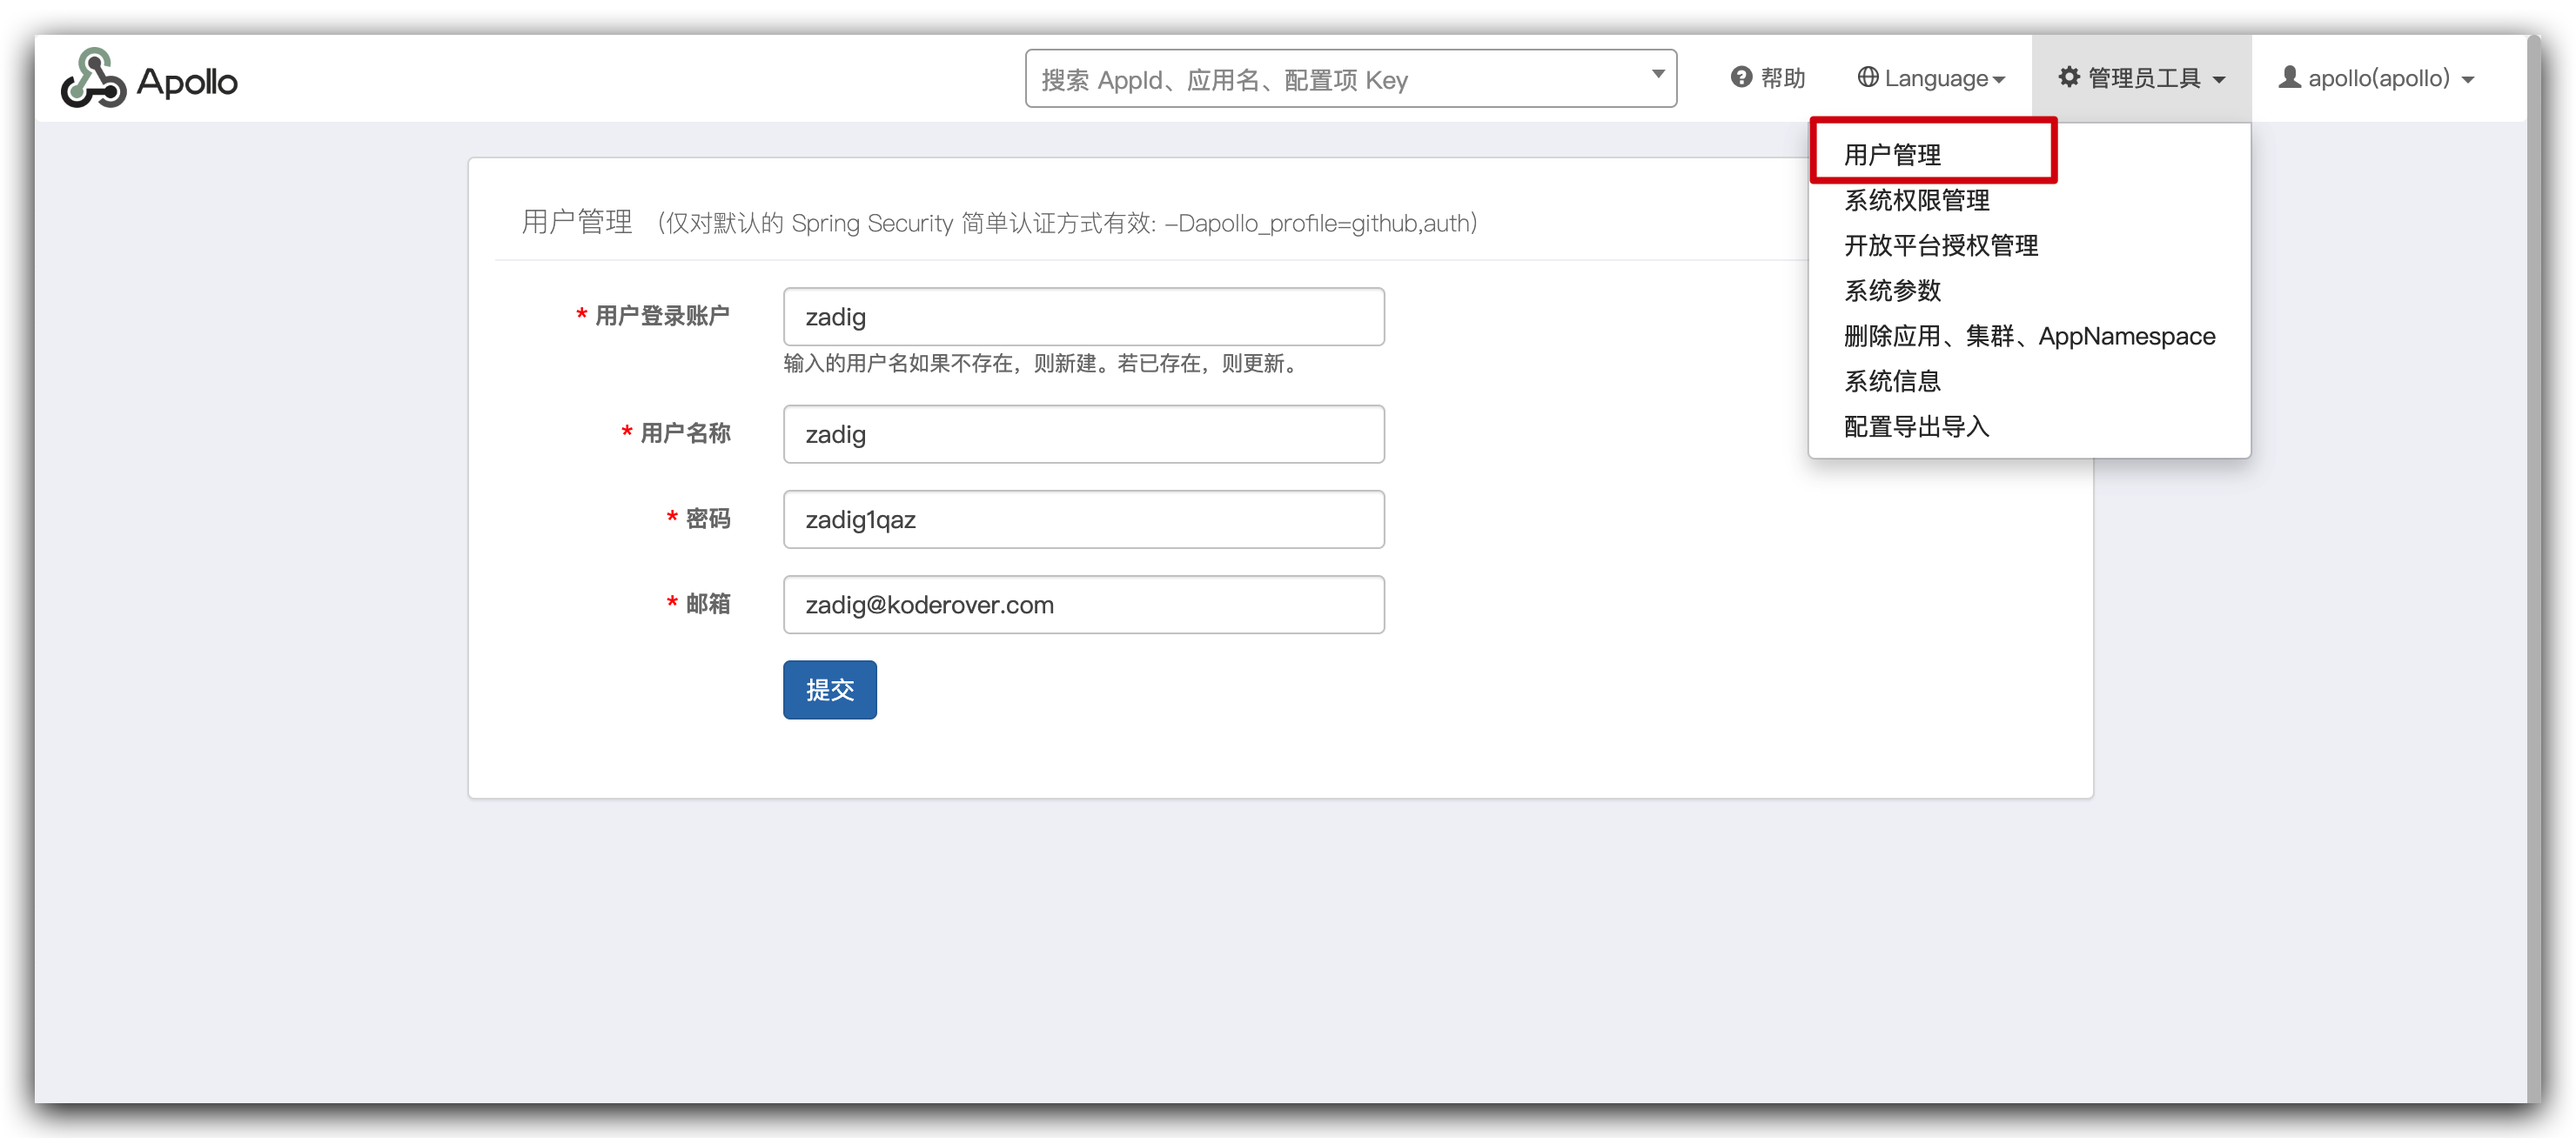
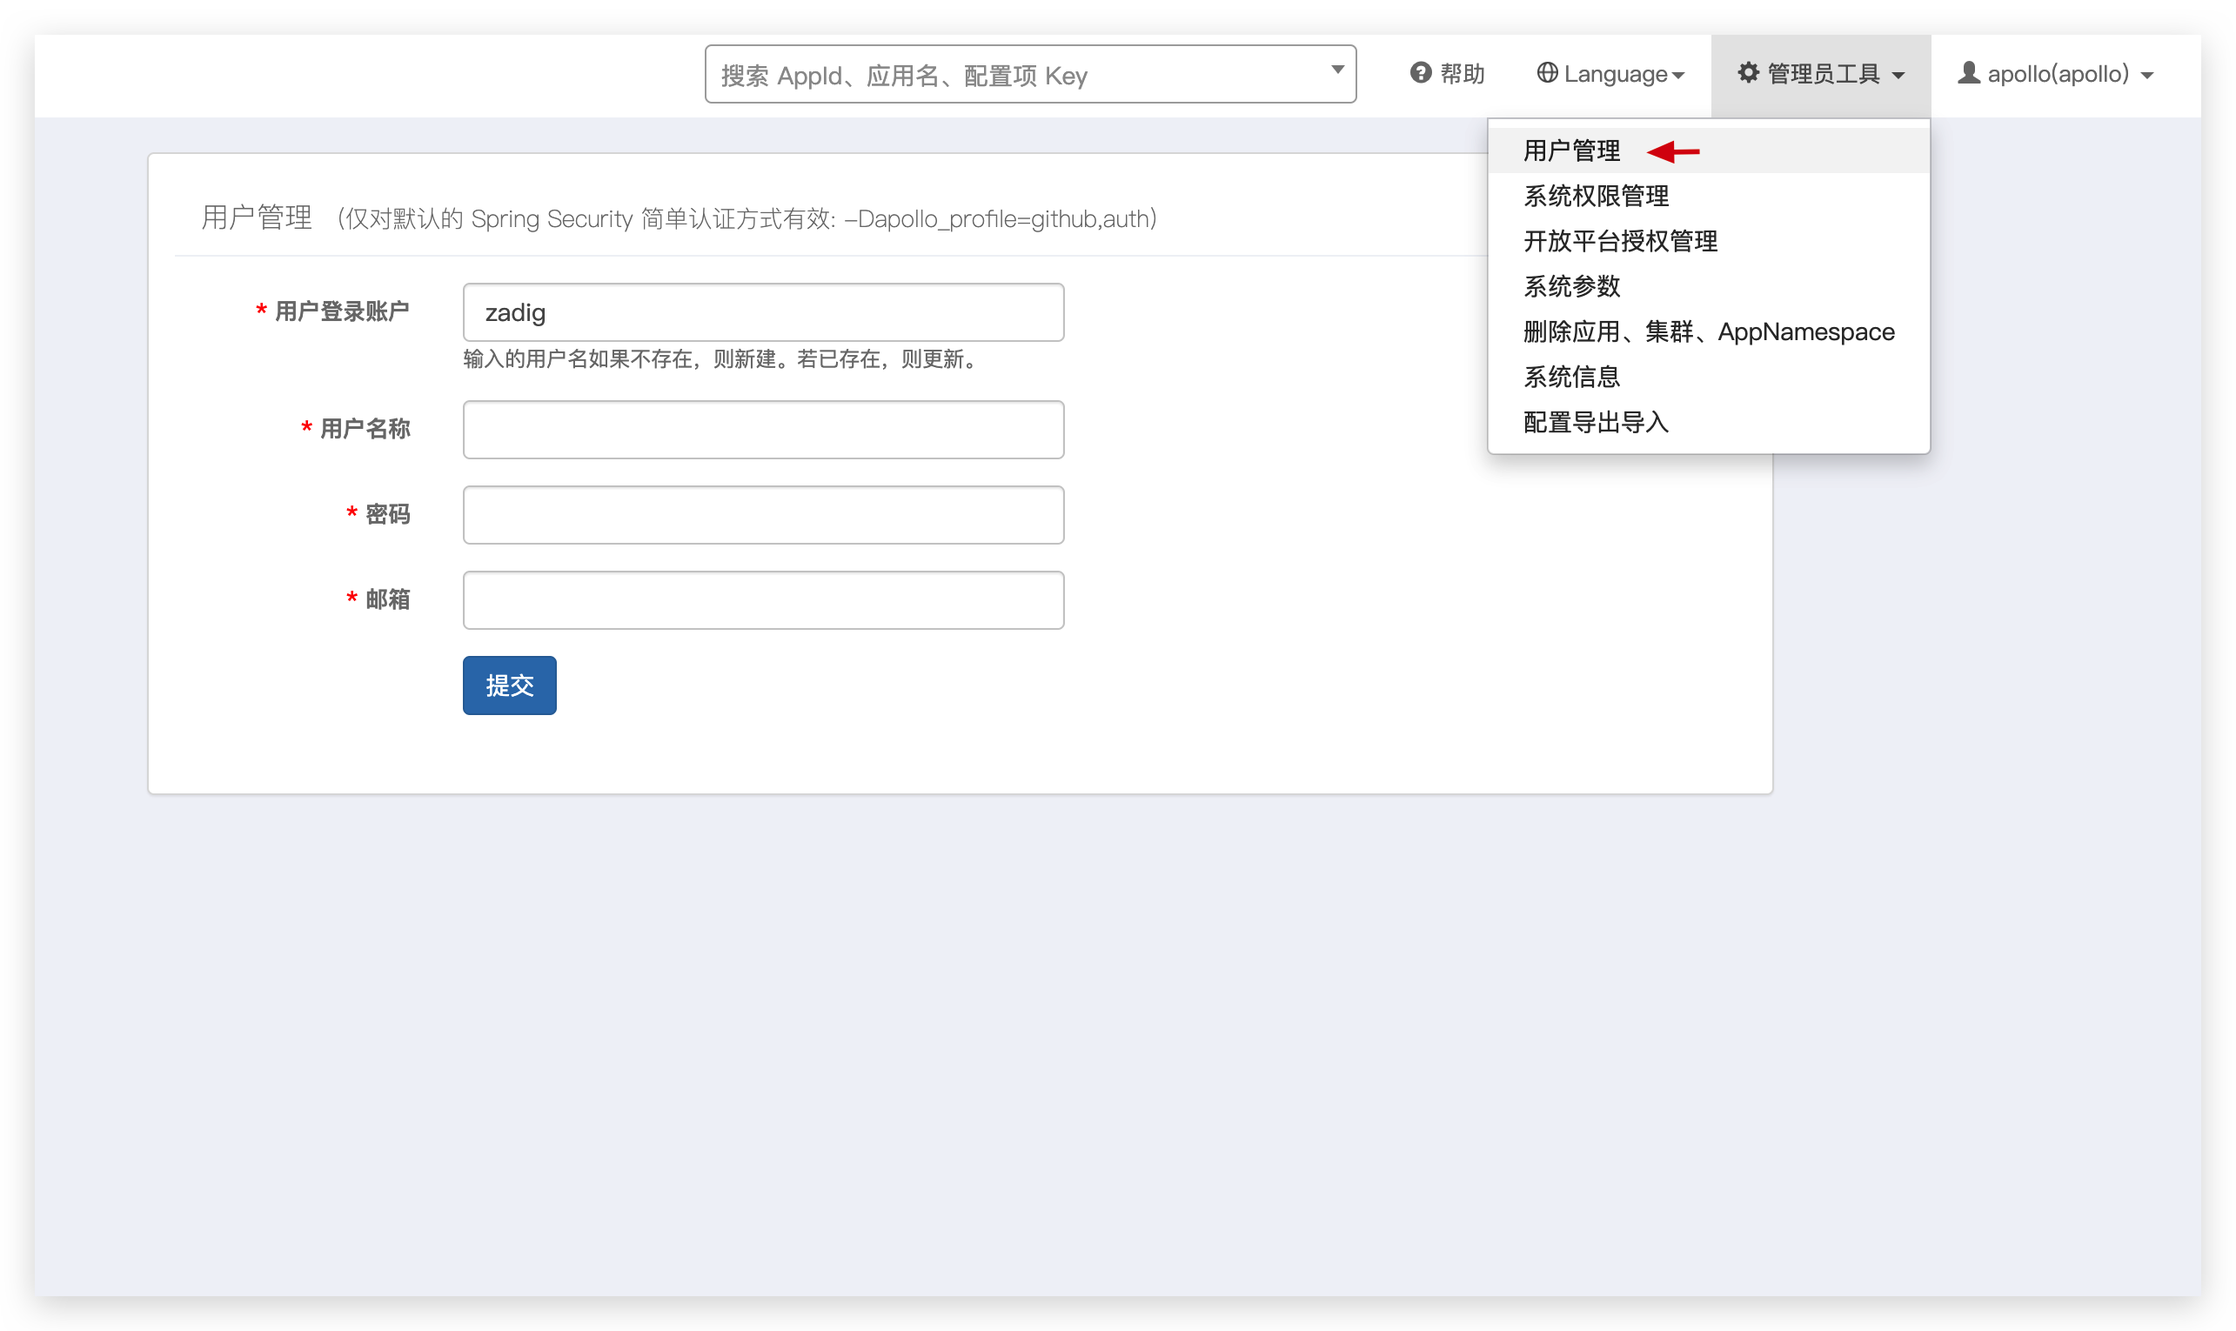
update Apollo config description

diff --git a/ZadigX v1.6.0/05.功能介绍/17.集成管理/03.配置系统/00.Apollo.md b/ZadigX v1.6.0/05.功能介绍/17.集成管理/03.配置系统/00.Apollo.md
@@ -9,10 +9,12 @@ permalink: /ZadigX v1.6.0/settings/configsystem/apollo/
 
 ## 添加账号
 - 打开 Apollo，进入 `管理员工具` ->`用户管理`，填写信息，完成用户创建。
+
+::: tip 注意事项
+用户登录账户命名为 `zadig`。
+:::
+
 ![Apollo配置](../_images/apollo_account_01.png)
-
-需注意：用户登录账号必须命名为 `zadig`。
-
 
 ## 添加配置
 - 进入 `管理员工具` ->`开放平台授权管理`，填写信息，完成第三方应用创建。

diff --git a/ZadigX dev/05.功能介绍/17.集成管理/03.配置系统/00.Apollo.md b/ZadigX dev/05.功能介绍/17.集成管理/03.配置系统/00.Apollo.md
@@ -9,10 +9,12 @@ permalink: /ZadigX dev/settings/configsystem/apollo/
 
 ## 添加账号
 - 打开 Apollo，进入 `管理员工具` ->`用户管理`，填写信息，完成用户创建。
+
+::: tip 注意事项
+用户登录账户命名为 `zadig`。
+:::
+
 ![Apollo配置](../_images/apollo_account_01.png)
-
-需注意：用户登录账号必须命名为 `zadig`。
-
 
 ## 添加配置
 - 进入 `管理员工具` ->`开放平台授权管理`，填写信息，完成第三方应用创建。
